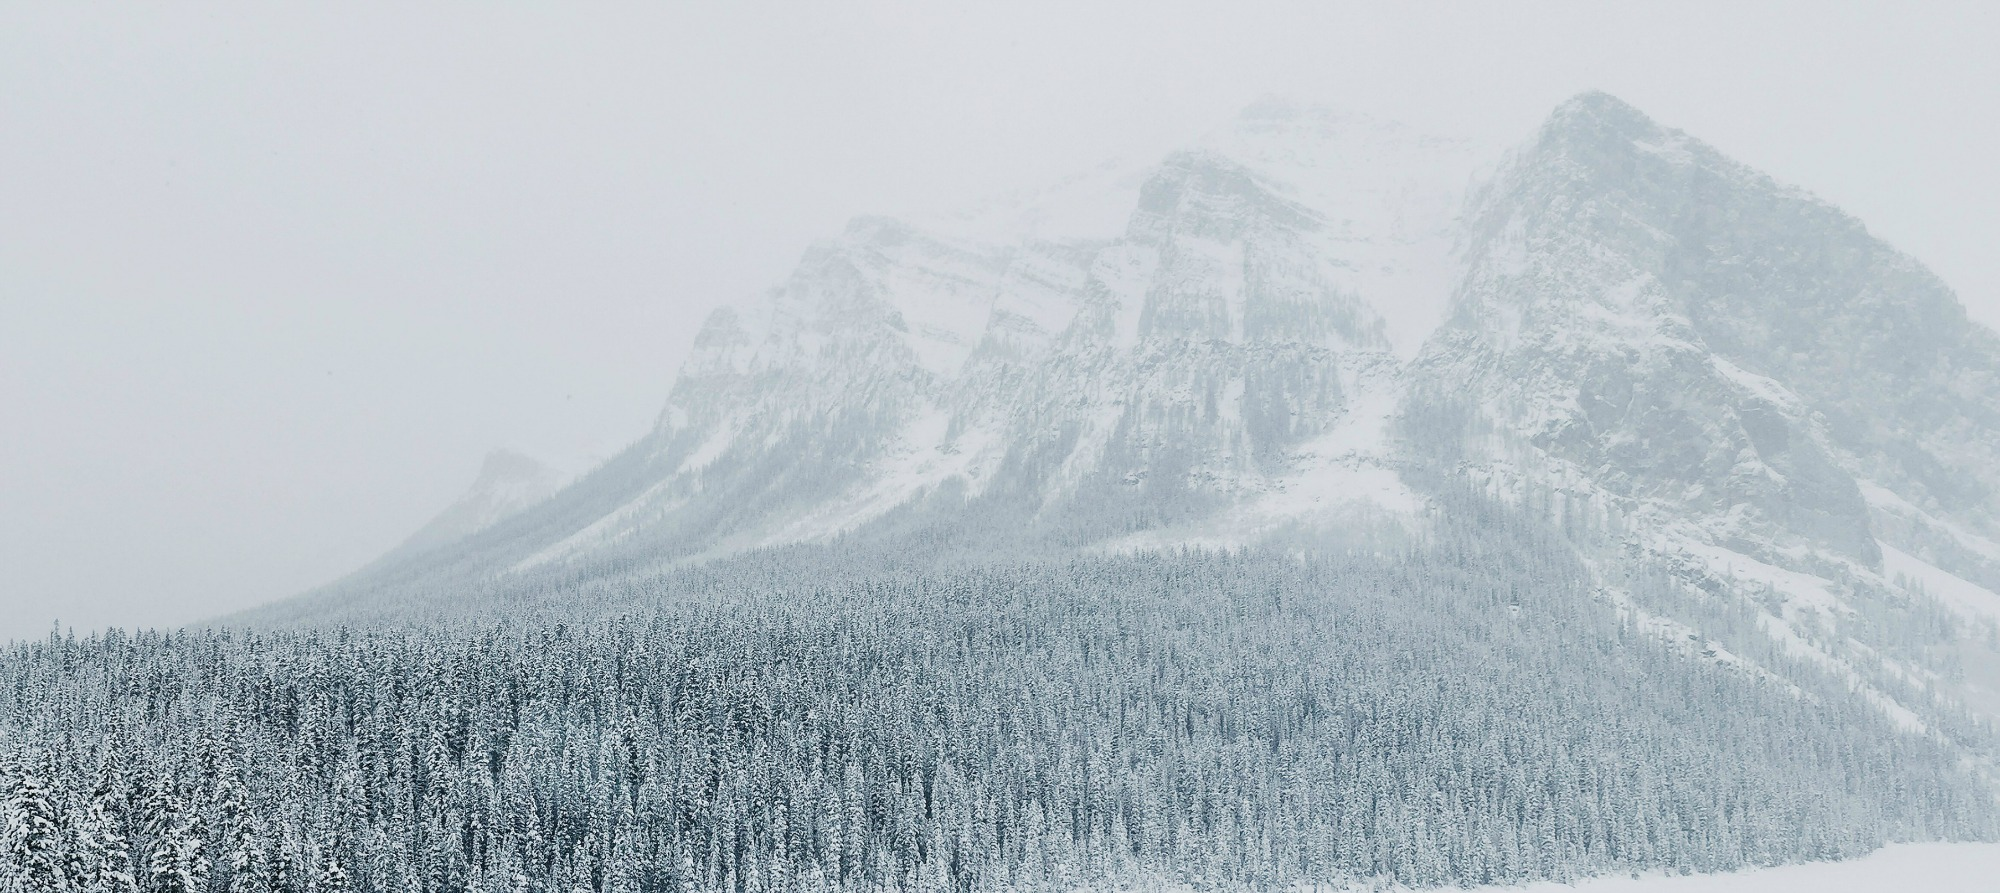
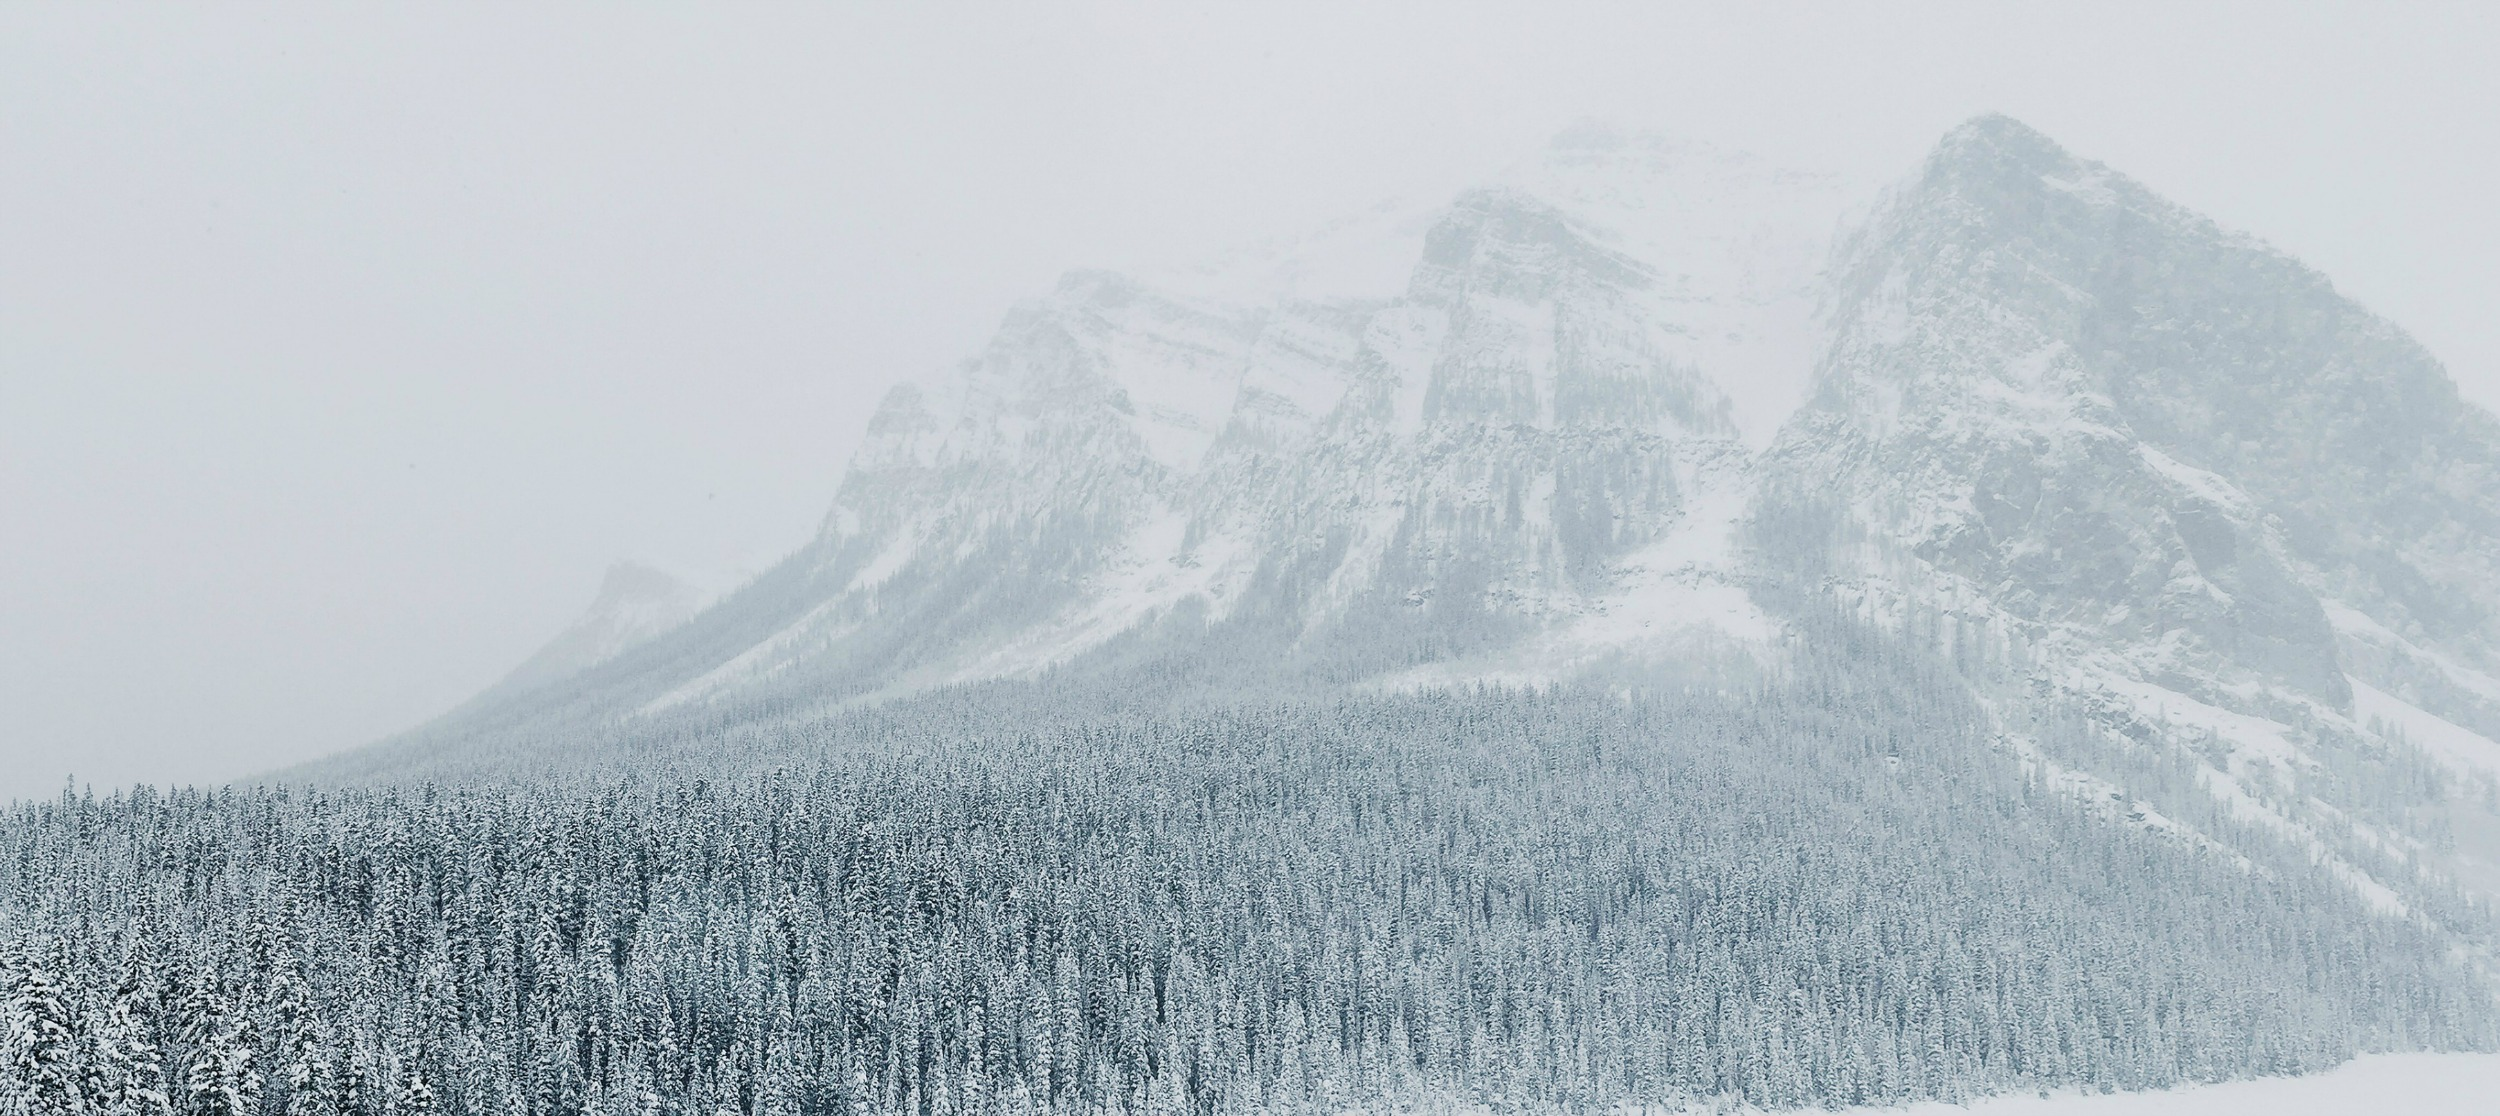
Fix background img

Changed region(s): [[0.0, 0.6954, 0.558, 1.0]]

diff --git a/css/master.css b/css/master.css
@@ -3,7 +3,8 @@ body {
   overflow: auto;
   font-family: "Questrial", sans-serif;
   color: #6B2737;
-  background-image: url("../img/orig3.jpg")
+  background-image: url("../img/orig3.jpg");
+  background-repeat: no-repeat;
 }
 
 #wrapper {
